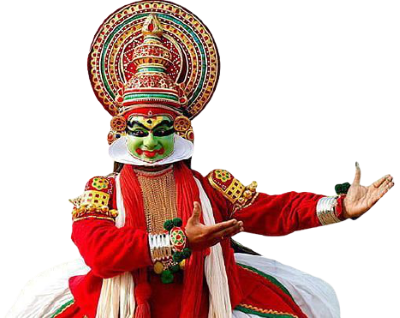
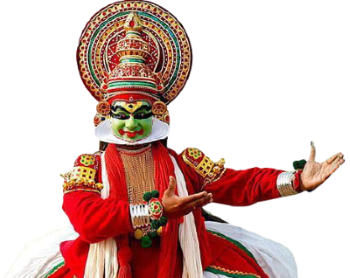
issues in carousel fixed

diff --git a/index.html b/index.html
@@ -80,9 +80,8 @@
   </nav>
   <!--Navbar end-->
       <!--Carousel-->
-      <div class="">
-      <div class="row">
-    <div class="col-lg-12">
+     
+
       <div id="carouselExampleControls" class="carousel slide" data-ride="carousel">
         <div class="carousel-inner">
           <div class="carousel-item active">
@@ -110,17 +109,16 @@
           <span class="sr-only">Next</span>
         </a>
       </div>
-    </div>
-   
-  </div>
-</div>
+  
+
+
   
   <!--end carousel-->
   <!--About Kerala-->
-  <div class="aboutkerala">
+  <div class="container-fluid aboutkerala">
     <h2>Welcome To God's Own Country</h2>
     <div class="row">
-      <div class="col-sm imgsize">
+      <div class="col-sm">
       <!-- <img src="Images/kathakali.png" alt="Kathakali"> -->
       <picture>
         <source media="(max-width: 799px)" srcset="Images/kathakali.png">
@@ -128,7 +126,7 @@
         <img src="Images/kathakali1.png" alt="kathakali">
       </picture>
     </div>
-    <div class="col-sm">
+    <div class="col-sm" style="margin-top: 10px;">
     <p> 	
      <span>K</span>erala, located on the south-western tip of India, enjoys unique geographical features that have made it one of the most sought-after tourist destinations in Asia. Fondly referred to as ‘God’s Own Country’, Kerala was selected by the National Geographic Traveller as one of the 50 destinations of a lifetime and one of the thirteen paradises in the world.
     </p>

diff --git a/CSS/style.css b/CSS/style.css
@@ -3,6 +3,9 @@
     margin: 0%;
 }
 
+img{
+    max-width: 100%!important;
+  }
 .myMargin{
     padding: 5%;
 }
@@ -13,6 +16,8 @@
 .navbar{
     background-color: #00264C!important;
 }
+
+ 
 /* .carousel-item img {
     height: 80vh;
   }
@@ -70,8 +75,6 @@
     box-shadow: 0 4px 8px 0 rgba(0,0,0,0.2);
     transition: 0.3s;
     margin: 5%!important;
-
-  
   }
   
   /* On mouse-over, add a deeper shadow */
